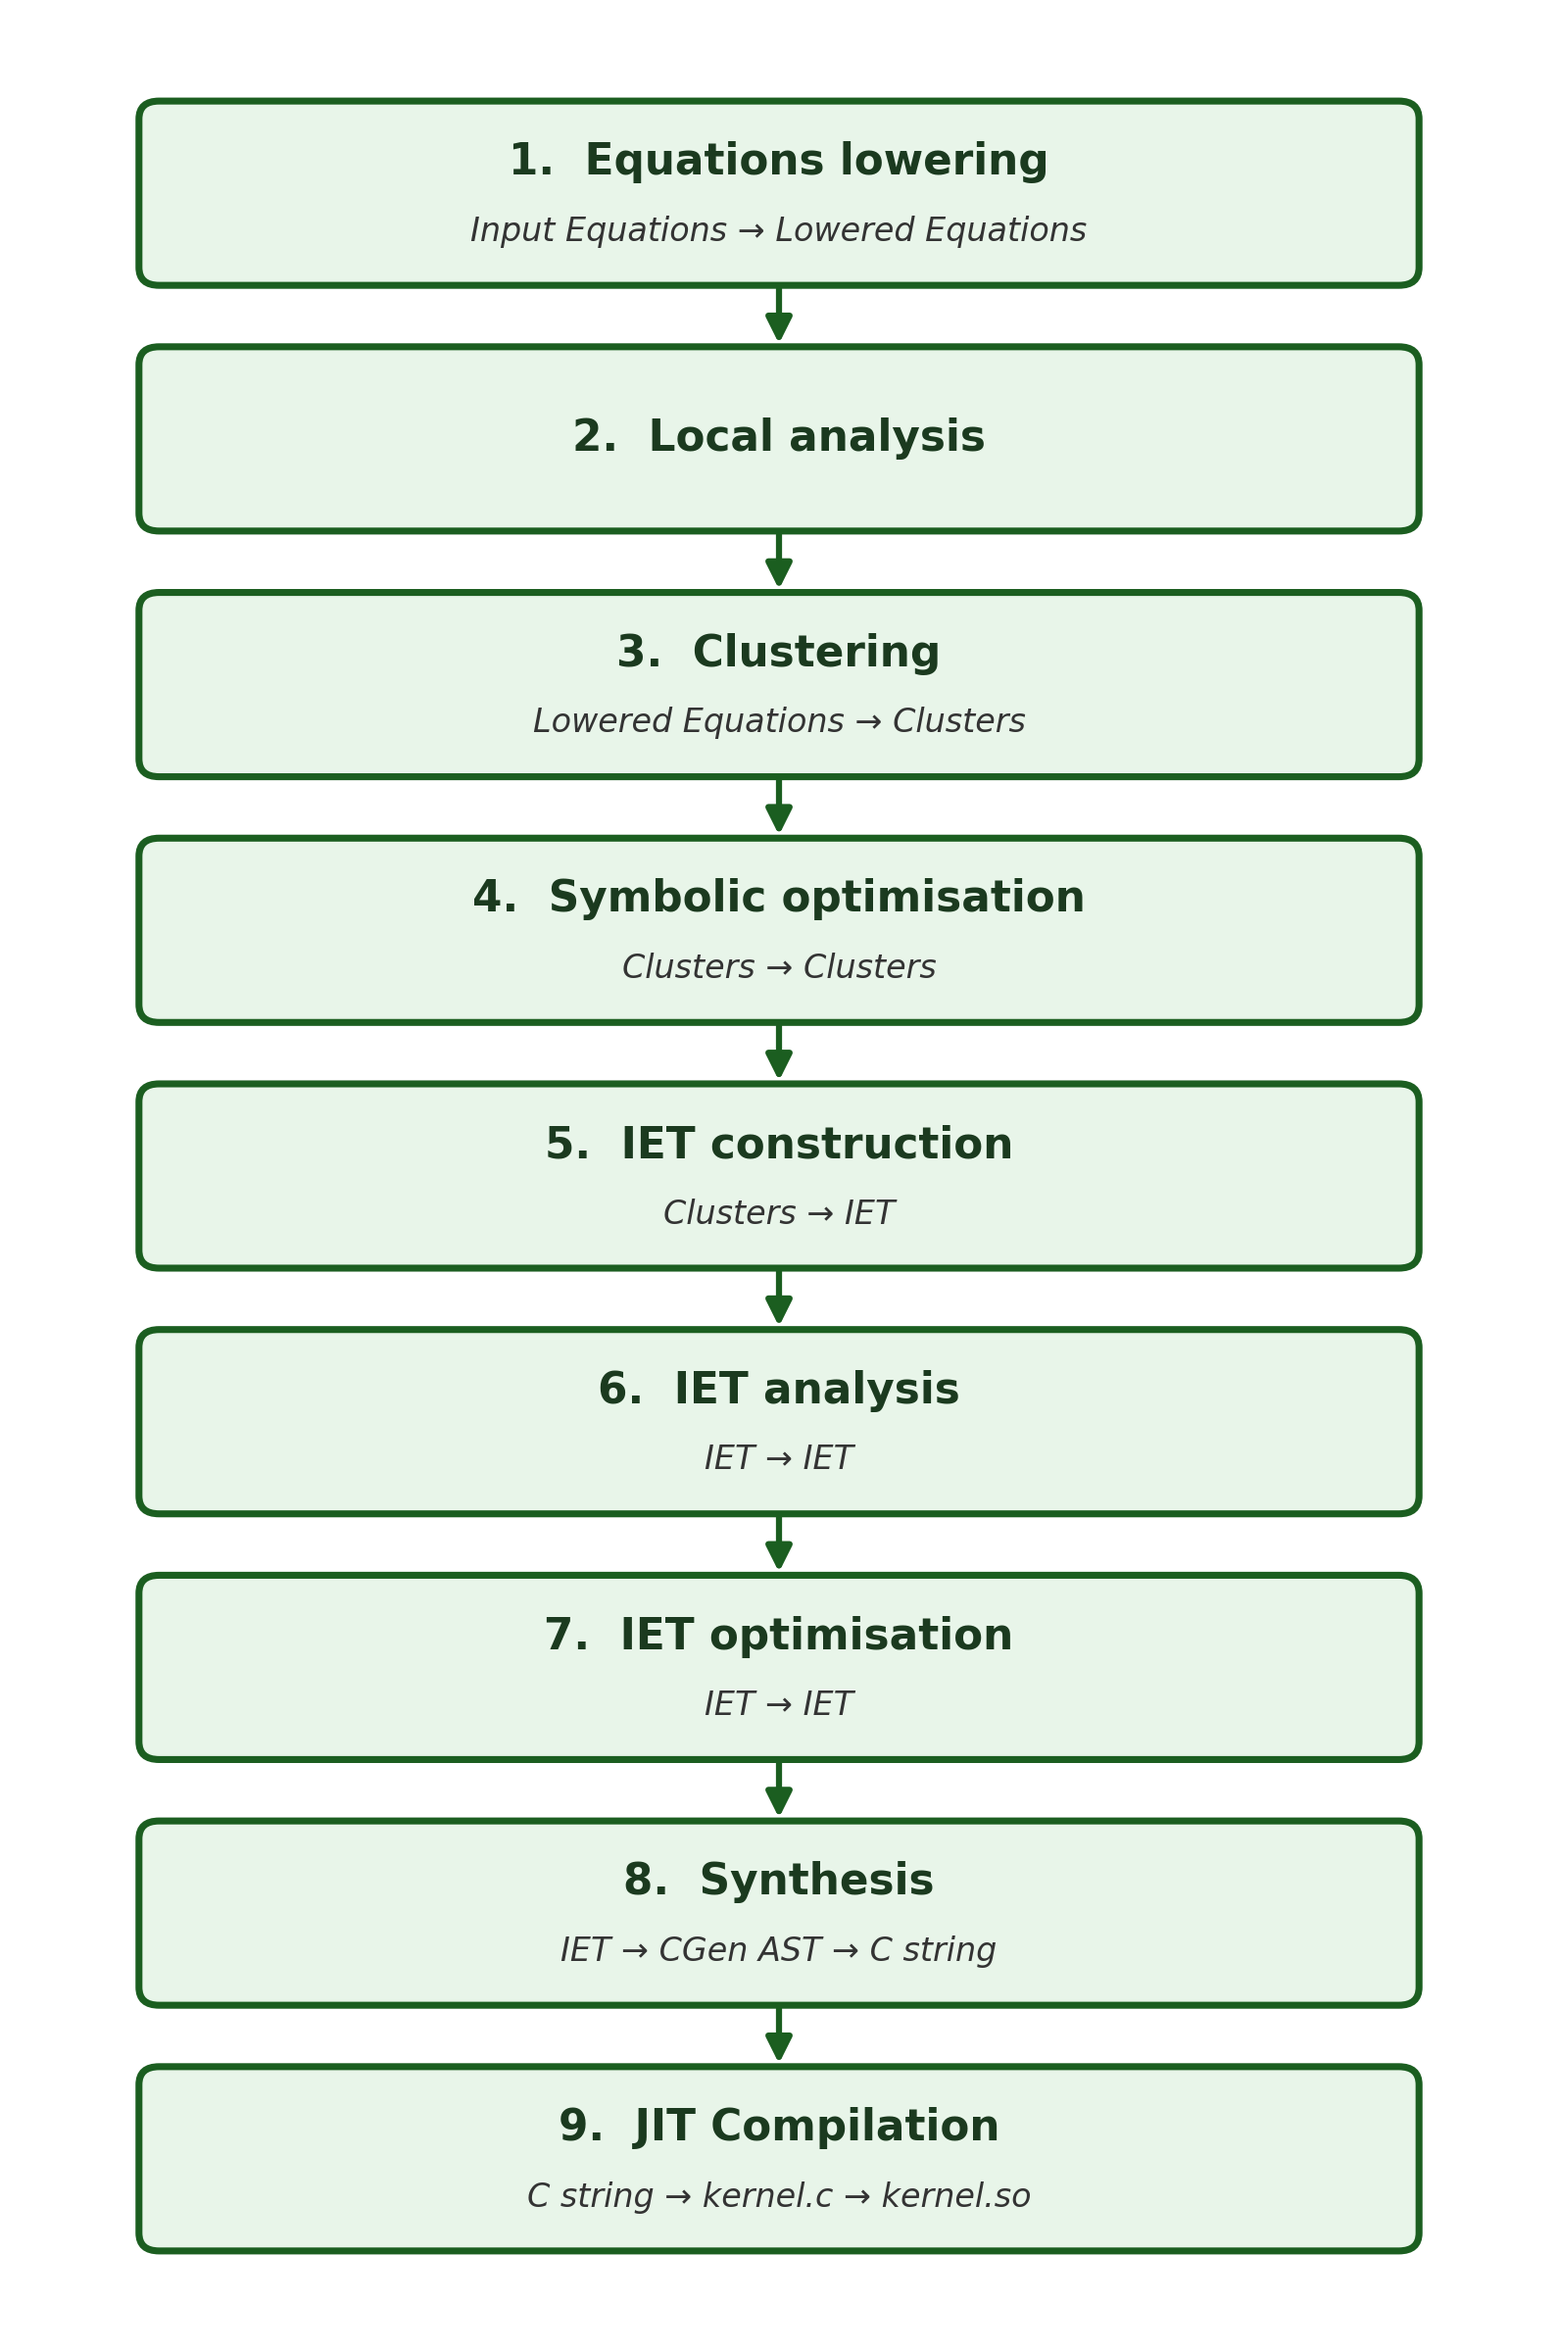
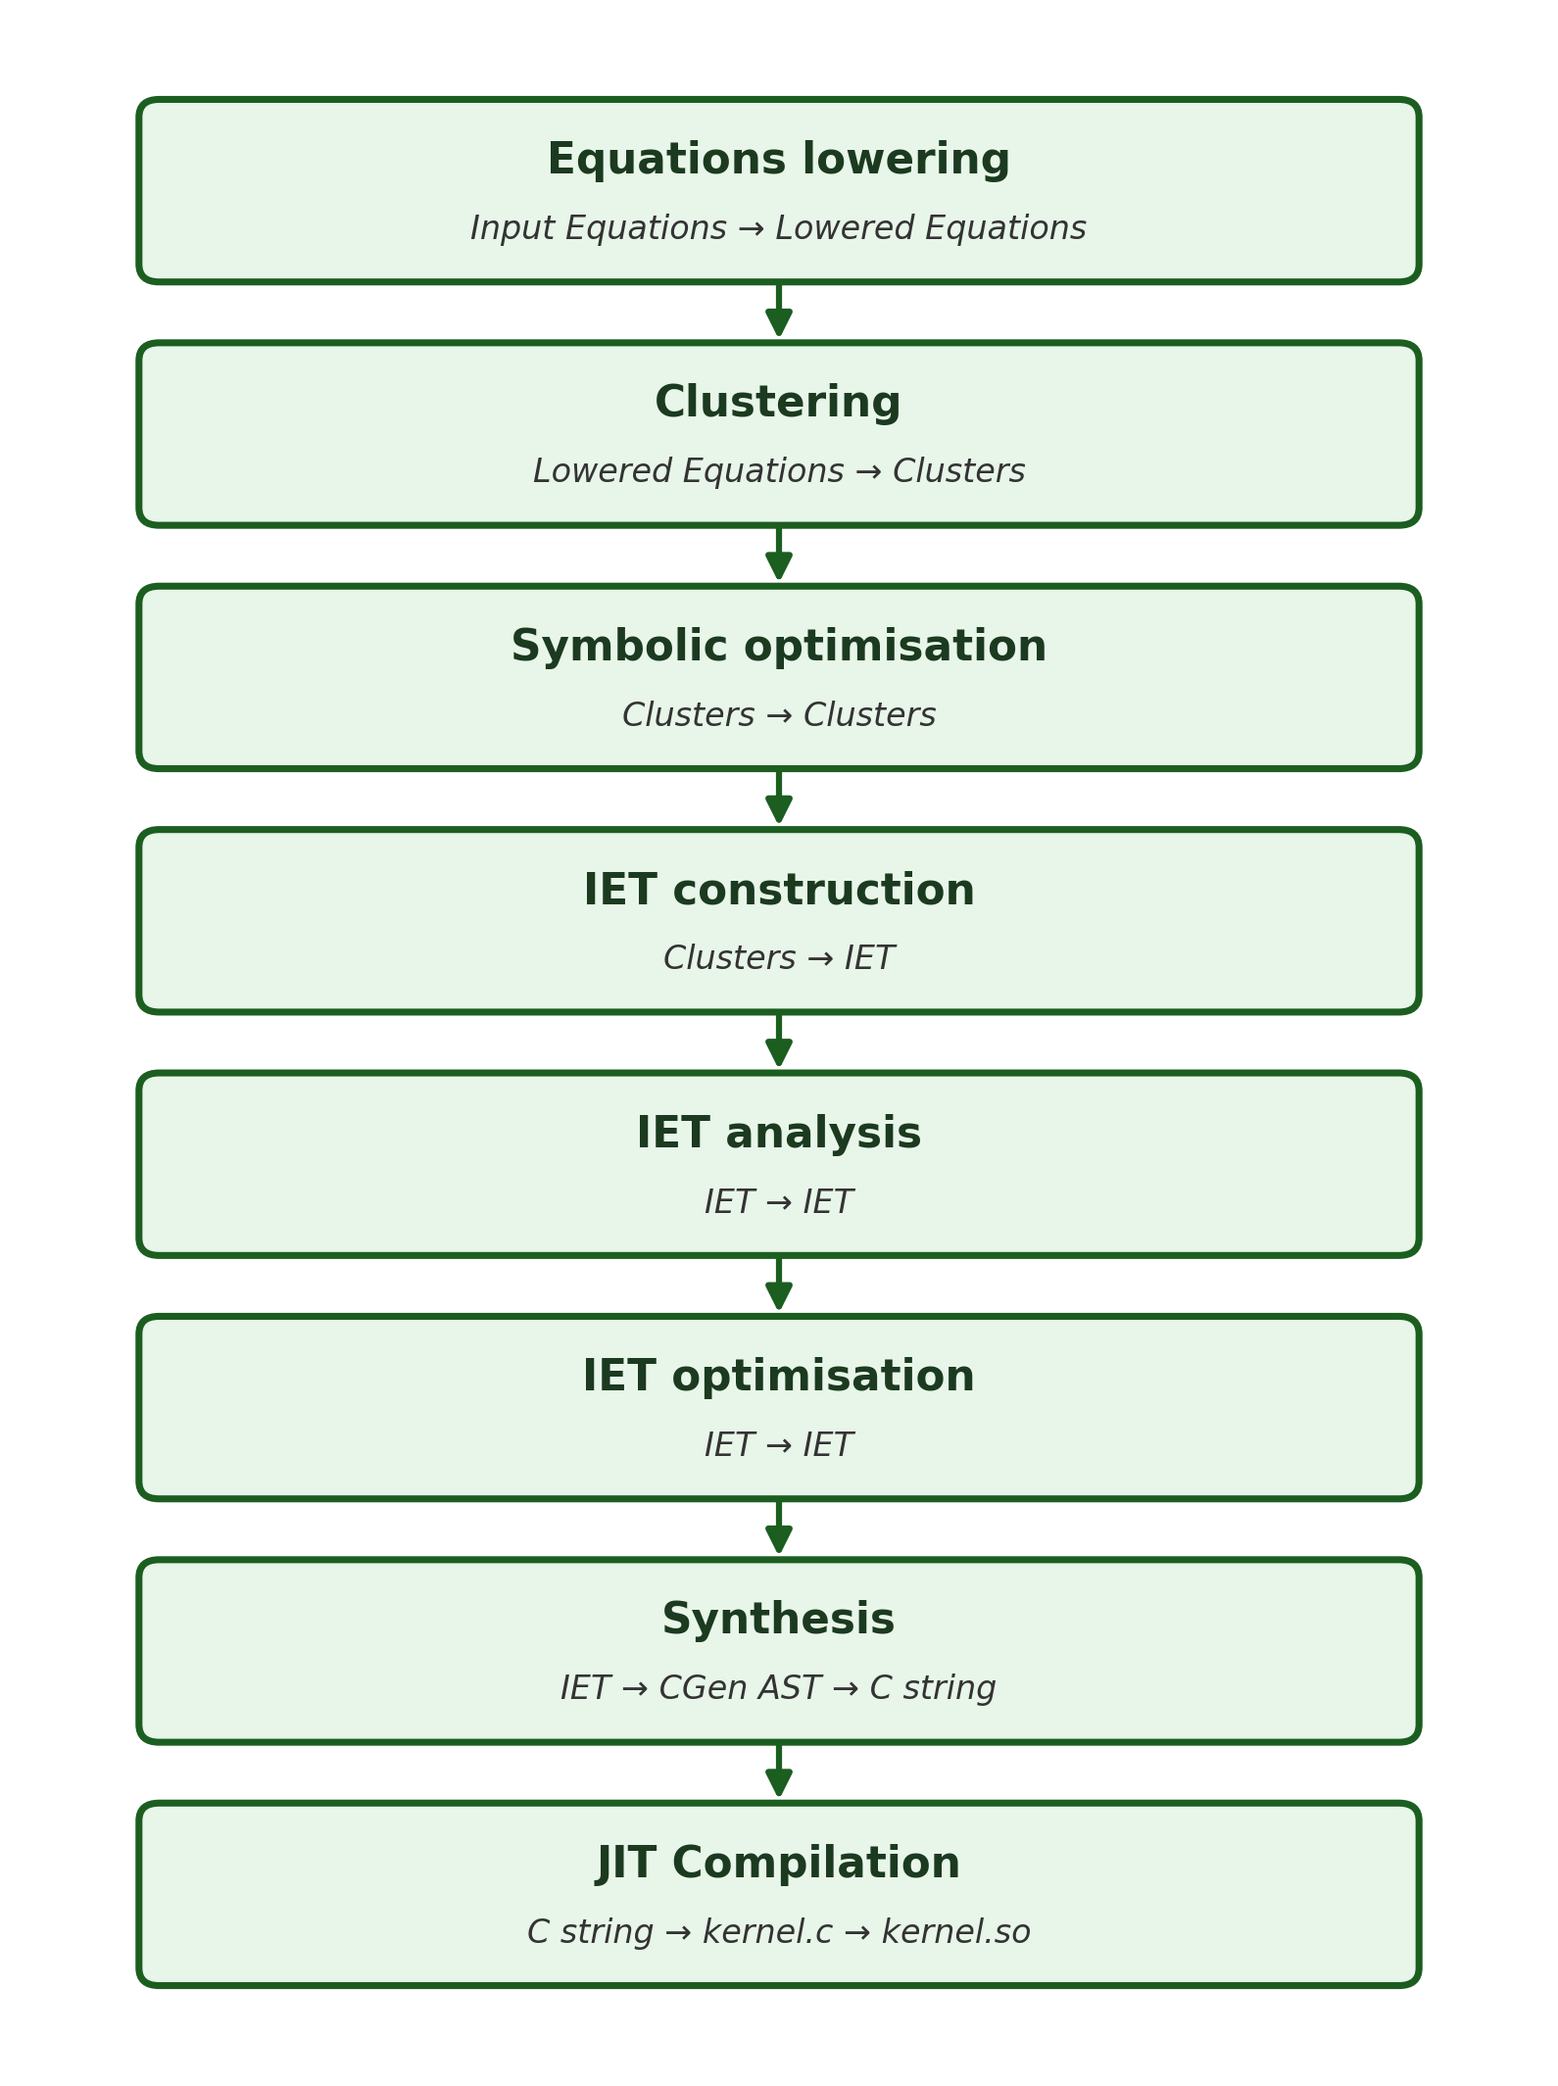
drop numbers from devito compiler plot

Changed region(s): [[0.0616, 0.031, 0.9245, 0.961]]

diff --git a/Chapter2/devito_compiler.py b/Chapter2/devito_compiler.py
@@ -11,7 +11,6 @@ TEXT_DARK = "#1B3A1F"
 
 STAGES = [
     ("Equations lowering", "Input Equations → Lowered Equations", False),
-    ("Local analysis", "", False),
     ("Clustering", "Lowered Equations → Clusters", True),
     ("Symbolic optimisation", "Clusters → Clusters", True),
     ("IET construction", "Clusters → IET", False),
@@ -20,10 +19,7 @@ STAGES = [
     ("Synthesis", "IET → CGen AST → C string", True),
     ("JIT Compilation", "C string → kernel.c → kernel.so", False),
 ]
-STAGES = [(f"{i}.  {title}", subtitle, highlighted)
-          for i, (title, subtitle, highlighted) in enumerate(STAGES, start=1)]
-
-fig, ax = plt.subplots(figsize=(5.4, 8.1))
+fig, ax = plt.subplots(figsize=(5.4, 7.2))
 ax.axis("off")
 
 card_w = 4.4
